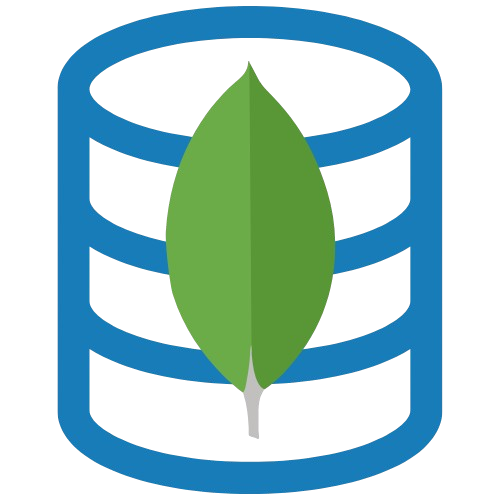
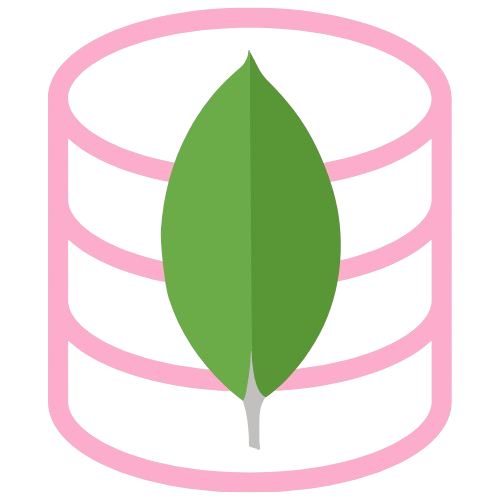
added more projects and change theme to pink again

diff --git a/index.html b/index.html
@@ -3,9 +3,12 @@
 <head>
     <meta charset="UTF-8">
     <meta name="viewport" content="width=device-width, initial-scale=1.0">
-    <title>Anuska Roy Portfolio</title>
+    <title>Anuska Roy</title>
     <link rel="stylesheet" href="style.css"></link>
     <link rel="stylesheet" href="https://cdnjs.cloudflare.com/ajax/libs/font-awesome/6.7.1/css/all.min.css" integrity="sha512-5Hs3dF2AEPkpNAR7UiOHba+lRSJNeM2ECkwxUIxC1Q/FLycGTbNapWXB4tP889k5T5Ju8fs4b1P5z/iB4nMfSQ==" crossorigin="anonymous" referrerpolicy="no-referrer" />
+    <link rel="preconnect" href="https://fonts.googleapis.com">
+    <link rel="preconnect" href="https://fonts.gstatic.com" crossorigin>
+    <link href="https://fonts.googleapis.com/css2?family=Fira+Code:wght@300..700&family=Momo+Signature&family=Open+Sans:ital,wght@0,300..800;1,300..800&family=Outfit:wght@100..900&family=Roboto:ital,wght@0,100..900;1,100..900&display=swap" rel="stylesheet">
 </head>
 <body>
     <header>
@@ -25,6 +28,7 @@
         </nav>
     </header>
     <section id="about-section">
+
         <h2>Full Stack Developer</h2>
         <div class="bio">
             <p>
@@ -52,6 +56,22 @@
     <section id="projects-section">
         <h2>Projects</h2>
         <div class="projects-scroll-container">
+            <a href="https://github.com/jenyyy4/ai-hub" target="_blank" class="project-box">
+                <img src="images/aihub.png" alt="AiHub">
+                <h4>AiHub</h4>
+                <h5><em>ReactJS, NodeJS, ExpressJS, PostgreSQL(Neon), Clerk</em></h5>
+                <p>
+                    A full-stack AI SaaS web application that provides AI tools such as Article + Title + Image Generation, Background + Object Removal, and Resume Review.
+                </p>
+            </a>
+            <a href="https://github.com/jenyyy4/ai-rock-paper-scissors" target="_blank" class="project-box">
+                <img src="images/airockpaperscissors.png" alt="AI Rock Paper Scissors">
+                <h4>AI Rock Paper Scissors</h4>
+                <h5><em>MediaPipe Hands API, HTML, CSS, JavaScript</em></h5>
+                <p>
+                    A web game where users can play rock paper scissors with AI where the AI will always win.
+                </p>
+            </a>
             <a href="https://github.com/jenyyy4/sugar-and-swirl" target="_blank" class="project-box">
                 <img src="images/sugarandswirl.png" alt="Sugar & Swirl">
                 <h4>Sugar and Swirl</h4>
@@ -157,12 +177,20 @@
                 <p>React</p>
             </div>
             <div class="skill">
+                <i class="fa-brands fa-react"></i>
+                <p>React Native</p>
+            </div>
+            <div class="skill">
                 <i class="fa-brands fa-node"></i>
                 <p>Node</p>
             </div>
             <div class="skill">
                 <img src="images/mysql.png" id="skill-img"></img>
                 <p>MySQL</p>
+            </div>
+            <div class="skill">
+                <img src="images/postgresql.png" id="skill-img"></img>
+                <p>PostgreSQL</p>
             </div>
             <div class="skill">
                 <i class="fa-brands fa-python"></i>
@@ -195,9 +223,13 @@
                 <img src="images/algoqueen.png" alt="Algoqueen">
                 <h4>Global Rank 100 in ICPC Algoqueen</h4>
             </a>
+            <a href="https://drive.google.com/drive/folders/1Gwx4qCamsS7hzkfQWPNKqx1yjWi5npKb?usp=sharing" target="_blank" class="achievement-box">
+                <img src="images/hacktober2025.png" alt="Hacktober 2025">
+                <h4>Completed Hacktoberfest 2025 with 9 merged PRs + won a tshirt</h4>
+            </a>
             <a href="https://drive.google.com/file/d/1qVginmmlyELK-4ybACvW_xJY_eoYVw-3/view?usp=sharing" target="_blank" class="achievement-box">
-                <img src="images/hacktober.png" alt="Hacktober">
-                <h4>Completed Hacktoberfest with 10 merged PRs</h4>
+                <img src="images/hacktober2024.png" alt="Hacktober 2024">
+                <h4>Completed Hacktoberfest 2024 with 10 merged PRs</h4>
             </a>
         </div>
     </section>

diff --git a/style.css b/style.css
@@ -23,7 +23,7 @@ a {
 }
 
 nav {
-    background-color: #90e0ef;
+    background-color: #ffc8dd;
     display: flex;
     justify-content: space-between;
     padding: 0 3.125rem;
@@ -47,7 +47,9 @@ nav .left {
 
 nav .left a {
     color: var(--text-color);
-    font-size: 1rem;
+    font-size: 1.5rem;
+    font-weight: 600;
+    font-family: "Momo Signature", cursive;
 }
 
 nav .right a {
@@ -89,7 +91,7 @@ section {
 }
 
 section:nth-of-type(odd) {
-    background-color: #caf0f8;
+    background-color: #fff0f3;
 }
 
 section:nth-of-type(even) {
@@ -110,7 +112,7 @@ section h2::after {
     position: absolute;
     width: 100px;
     height: 4px;
-    background-color: #0077b6;
+    background-color: #ffc8dd;
     bottom: -10px;
     left: 50%;
     transform: translateX(-50%);
@@ -159,12 +161,12 @@ section h2::after {
 }
 
 #about-section .social-links a:hover i {
-    color: #03045e;
+    color: #d480a0;
     transform: scale(1.2);
 }
 
 #about-section .social-links i {
-    color: #0077b6;
+    color: #fcadcb;
     font-weight: 500;
 }
 
@@ -178,7 +180,7 @@ section h2::after {
 }
 .resume-btn {
   padding: 0.5rem 1rem 0.5rem 1rem;
-  background-color: #0077b6;
+  background-color: #fcadcb;
   color: white;
   font-size: 1.25rem;
   font-weight: 500;
@@ -186,7 +188,7 @@ section h2::after {
   transition: background 0.3s, transform 0.3s;
 }
 .resume-btn:hover {
-  background-color: #03045e;
+  background-color: #d480a0;
   transform: scale(1.05);
 }
 
@@ -289,7 +291,7 @@ section h2::after {
 
 #skills-section i {
     font-size: 3rem;
-    color: #0077b6;
+    color: #fcadcb;
     transition: transform 0.3s ease, color 0.3s ease;
     margin: 1rem 0;
 }
@@ -339,6 +341,9 @@ section h2::after {
 }
 
 .achievement-box {
+    width: 30rem;
+    flex-shrink: 0;
+
     text-align: center;
     border: 1px solid #d7dbd8;
     border-radius: 0.5rem;
@@ -377,8 +382,8 @@ section h2::after {
 }
 
 footer {
-    background-color: #caf0f8;
-    color: #000000;
+    background-color: #fff0f3;
+    color: #909090;
     text-align: center;
     padding: 1rem 0;
     font-size: 0.875rem;
